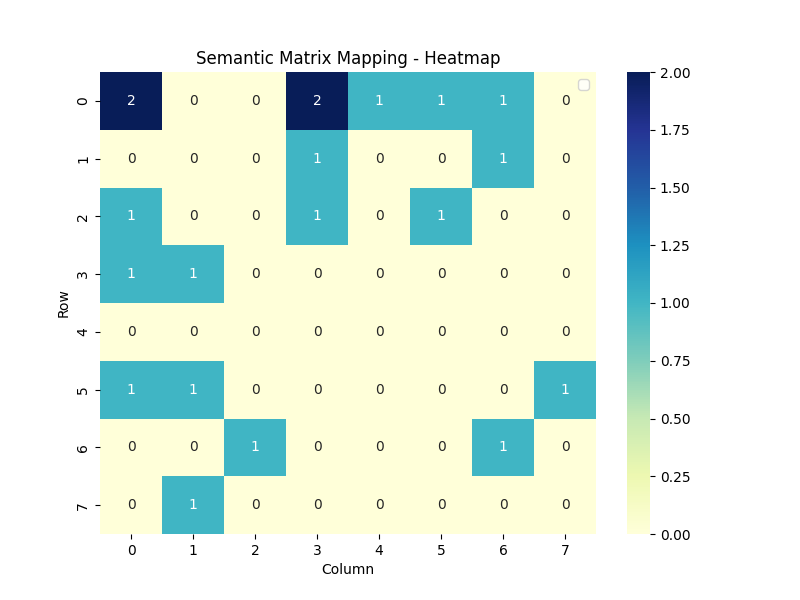
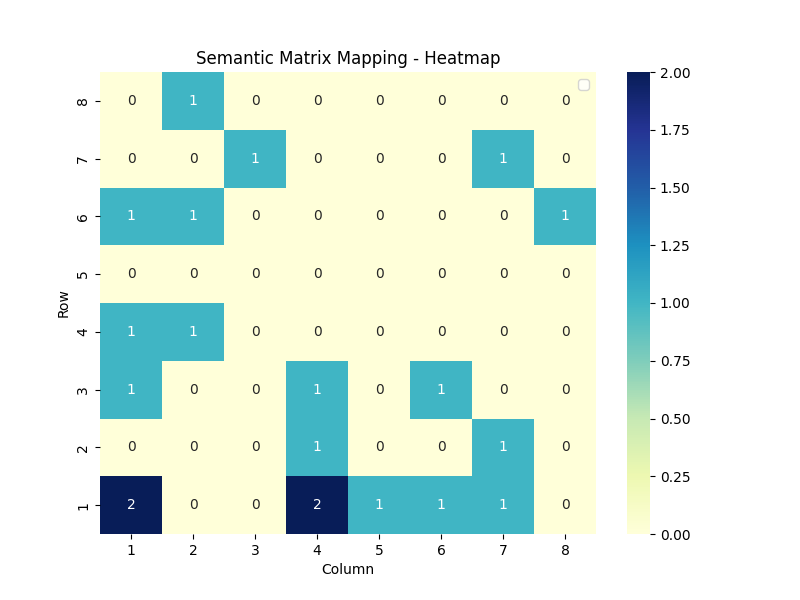
hover added as a plotly figure

diff --git a/3-semantic_space.py b/3-semantic_space.py
@@ -25,6 +25,7 @@ for context_id, context_data in term_context_matrix.items():
     for neighbor_id, neighbor_data in term_context_matrix.items():
         if context_id != neighbor_id:
             weight = sum(c1 * c2 for c1, c2 in zip(context_data, neighbor_data))
+            # weight = sum((1 if c1 > 0 else 0 ) * (1 if c2 > 0 else 0 ) for c1, c2 in zip(context_data, neighbor_data))
             weight_normalized = weight / 20
             if weight_normalized > 0.3:
                 G.add_edge(context_id, neighbor_id, weight=weight)
@@ -68,22 +69,23 @@ for context_id, context_data in term_context_matrix.items():
             if weight_normalized > 0.3:
                 context_context_matrix[int(context_id) - 1, int(neighbor_id) - 1] = int(weight)
 
-# Find the indices of non-zero entries in the context-context matrix
-nonzero_indices = np.nonzero(context_context_matrix)
+# Adjusting the matrix for display
+adjusted_matrix = np.flipud(context_context_matrix)
 
-# Create a heatmap using seaborn for the non-zero entries
-plt.figure(figsize=(8, 6))
-sns.heatmap(context_context_matrix, annot=True, fmt="d", cmap="YlGnBu", cbar=True,
-            xticklabels=True, yticklabels=True, mask=(context_context_matrix == 0))
-plt.title("Context-Context Matrix (Non-Zero Entries)")
-plt.xlabel("Context ID")
-plt.ylabel("Context ID")
-# Save the plot
+# Create the heatmap
+plt.figure(figsize=(10, 8))  # You can adjust the figure size as per your preference
+sns.heatmap(adjusted_matrix, annot=True, fmt="d", cmap="YlGnBu",
+            xticklabels=list(range(1, NUM_CONTEXT + 1)), yticklabels=list(range(NUM_CONTEXT, 0, -1)))  
+
+# Adding title and labels if needed
+plt.title('Context-Context Matrix Heatmap')
+plt.xlabel('Context ID')
+plt.ylabel('Neighbor ID')
+
+# # Save the plot
 plt.savefig(f"./images/context_context_heatmap.png")
- 
+# Show the plot
 plt.show()
-
-
 
 # Generate a dictionary to store context IDs and their corresponding cell coordinates
 context_coordinates = {}
@@ -110,11 +112,16 @@ for coordinates in context_coordinates.values():
 
 # Create a NumPy array for the matrix
 matrix_data = np.zeros((NUM_DIMENSIONS, NUM_DIMENSIONS), dtype=int)
+# Adjusting the matrix for display
+adjusted_matrix_data = np.flipud(matrix_data)
+
+
 for row, col in zip(rows, cols):
     matrix_data[row, col] += 1
 plt.figure(figsize=(8, 6))
 # Create a heatmap using seaborn
-sns.heatmap(matrix_data, annot=True, fmt="d", cmap="YlGnBu", cbar=True, xticklabels=True, yticklabels=True)
+sns.heatmap(adjusted_matrix_data, annot=True, fmt="d", cmap="YlGnBu", cbar=True,
+            xticklabels=list(range(1, NUM_DIMENSIONS + 1)), yticklabels=list(range(NUM_DIMENSIONS, 0, -1)))
 # plt.scatter(cols, rows, marker='s', color='red', label='Contexts')  # Add red squares for context positions
 plt.title("Semantic Matrix Mapping - Heatmap")
 plt.xlabel("Column")
@@ -122,3 +129,84 @@ plt.ylabel("Row")
 plt.legend()
 plt.savefig(f"./images/semantic_space_heatmap.png")
 plt.show()
+
+
+import plotly.graph_objs as go
+
+context_text_mapping = {}
+
+with open("corpus.txt", "r", encoding="utf-8") as file:
+    for line in file:
+        # Assuming each line is in the format: "line_number,context_text"
+        line_number, context_text = line.strip().split(',', 1)
+        context_text_mapping[line_number] = line # context_text
+
+# Create an empty array for the line numbers
+line_numbers = [["" for _ in range(NUM_DIMENSIONS)] for _ in range(NUM_DIMENSIONS)]
+# Create an empty array for the heatmap
+context_texts = [["" for _ in range(NUM_DIMENSIONS)] for _ in range(NUM_DIMENSIONS)]
+
+# Populate the array with line numbers and context texts
+for context_id, coordinates in context_coordinates.items():
+    row, col = map(int, coordinates.split(','))
+    current_lines = line_numbers[row][col]
+    new_line = context_id  # Using context_id as the line number
+
+    # Concatenate if there's already a line number in this cell
+    if current_lines:
+        line_numbers[row][col] = current_lines + ", " + new_line
+    else:
+        line_numbers[row][col] = new_line
+
+    # Assign context text to the corresponding cell
+    current_text = context_texts[row][col]
+    new_text = context_text_mapping.get(context_id, "")
+
+    # Concatenate if there's already text in this cell
+    if current_text:
+        context_texts[row][col] = current_text + " || " + new_text
+    else:
+        context_texts[row][col] = new_text
+
+# Adjust the matrices for display
+adjusted_line_numbers = np.flipud(line_numbers)
+
+adjusted_context_texts = np.flipud(context_texts)
+
+# Create a figure for line numbers using Seaborn
+plt.figure(figsize=(8, 6))
+sns.heatmap(np.zeros_like(adjusted_matrix_data), annot=adjusted_line_numbers, fmt="", cmap="YlGnBu", cbar=False,
+            xticklabels=list(range(1, NUM_DIMENSIONS + 1)), yticklabels=list(range(1, NUM_DIMENSIONS + 1)))
+plt.title("Semantic Matrix Mapping - Line Numbers")
+plt.xlabel("Column")
+plt.ylabel("Row")
+plt.savefig(f"./images/semantic_space_heatmap_context_id.png")
+
+plt.show()
+
+
+
+trace = go.Heatmap(
+    z=adjusted_matrix_data, 
+    x=list(range(1, NUM_DIMENSIONS + 1)),
+    y=list(range(NUM_DIMENSIONS, 0, -1)),
+    text=adjusted_line_numbers,  # Display line numbers in each cell
+    hovertext=adjusted_context_texts,  # Show context information on hover
+    hoverinfo="text",
+    colorscale="YlGnBu" 
+)
+
+# Layout configuration
+layout = go.Layout(
+    title="Semantic Matrix Mapping - Heatmap",
+    xaxis=dict(title="Column"),
+    yaxis=dict(title="Row"),
+    hovermode='closest'
+)
+
+print(adjusted_line_numbers)
+# Create figure
+fig = go.Figure(data=[trace], layout=layout)
+
+# Show the figure
+fig.show()
